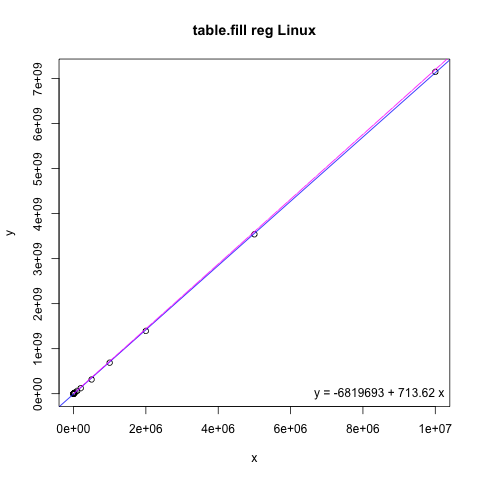
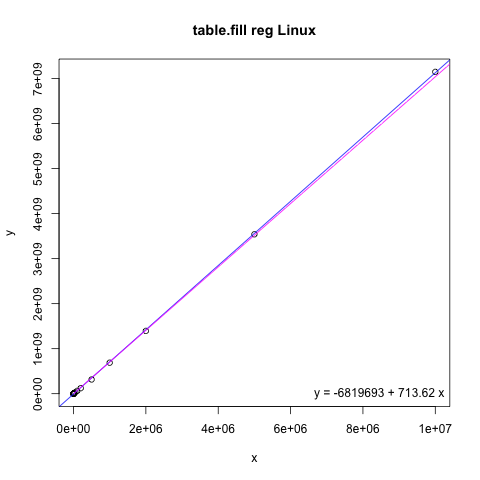
Updates.

diff --git a/tests/bulk_memory_estimations/table_fill.rs b/tests/bulk_memory_estimations/table_fill.rs
@@ -1,0 +1,19 @@
+use super::*;
+
+const TABLE_FILL: BenchmarkData = BenchmarkData {
+  lengths: &[
+    1, 2, 5, 10, 20, 50, 100, 200, 500, 1000, 2000, 5000, 10000, 20000, 50000, 100000, 200000, 500000, 1000000, 2000000, 5000000, 9999999,
+  ],
+  gas: &[
+    100330, 101660, 104070, 108470, 115510, 133870, 170110, 224540, 380670, 664690, 1288100, 3198300, 6231800, 12398000, 30921000, 61726000, 123530000, 315340000, 688420000,
+    1394600000, 3541400000, 7148300000,
+  ],
+  base: 80000,
+  unit_size: 64,
+  unit_cost: 45056,
+};
+
+#[test]
+fn estimate() {
+  values(&TABLE_FILL);
+}

diff --git a/tests/bulk_memory_estimations/mod.rs b/tests/bulk_memory_estimations/mod.rs
@@ -4,6 +4,7 @@ mod memory_copy;
 mod memory_fill;
 mod memory_grow;
 mod memory_init;
+mod table_fill;
 mod table_grow;
 mod table_init;
 
